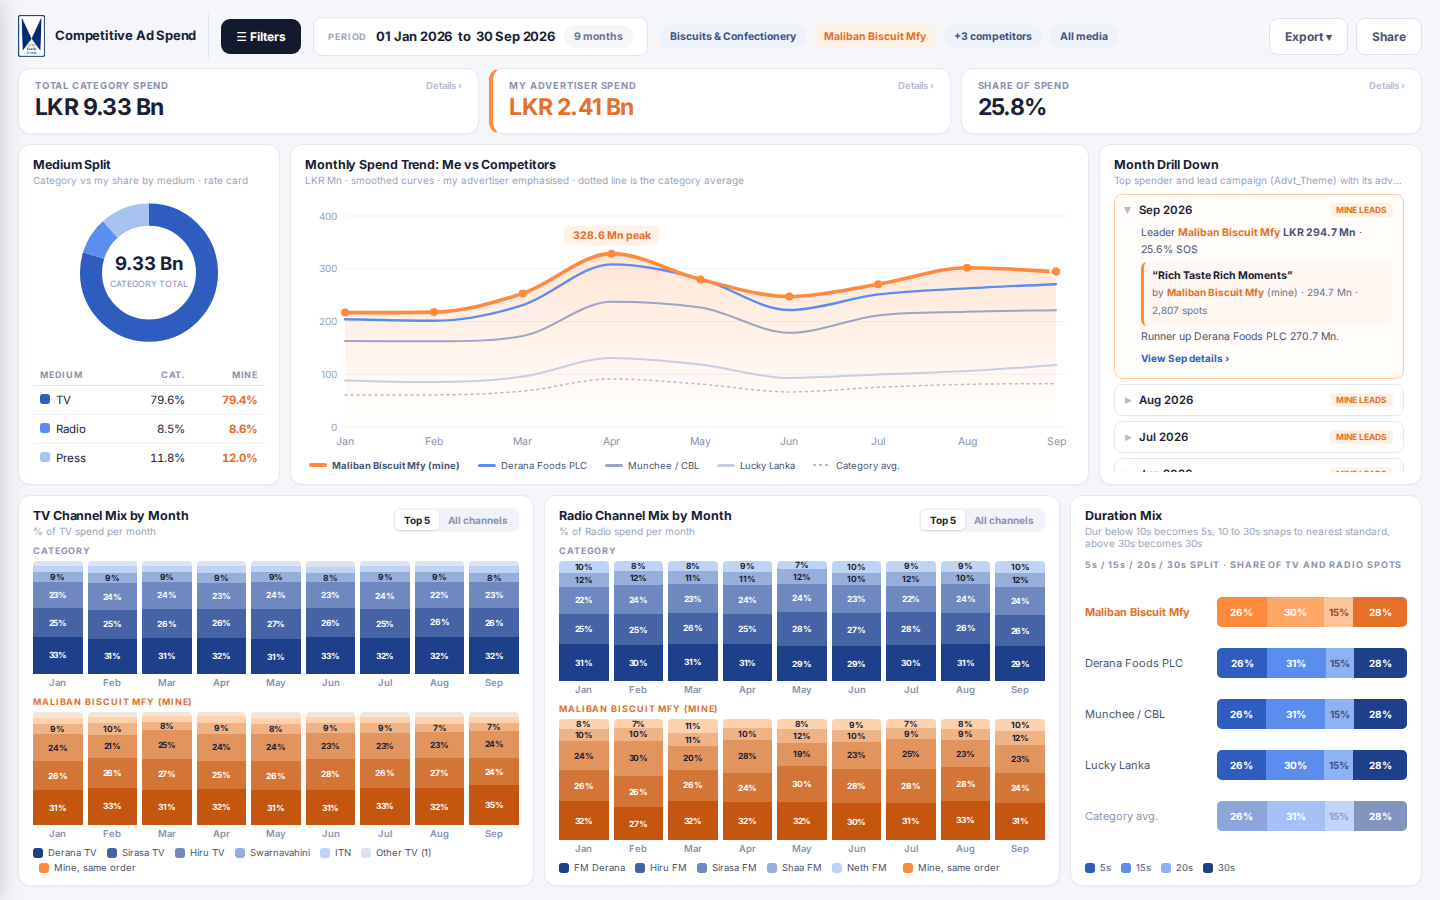
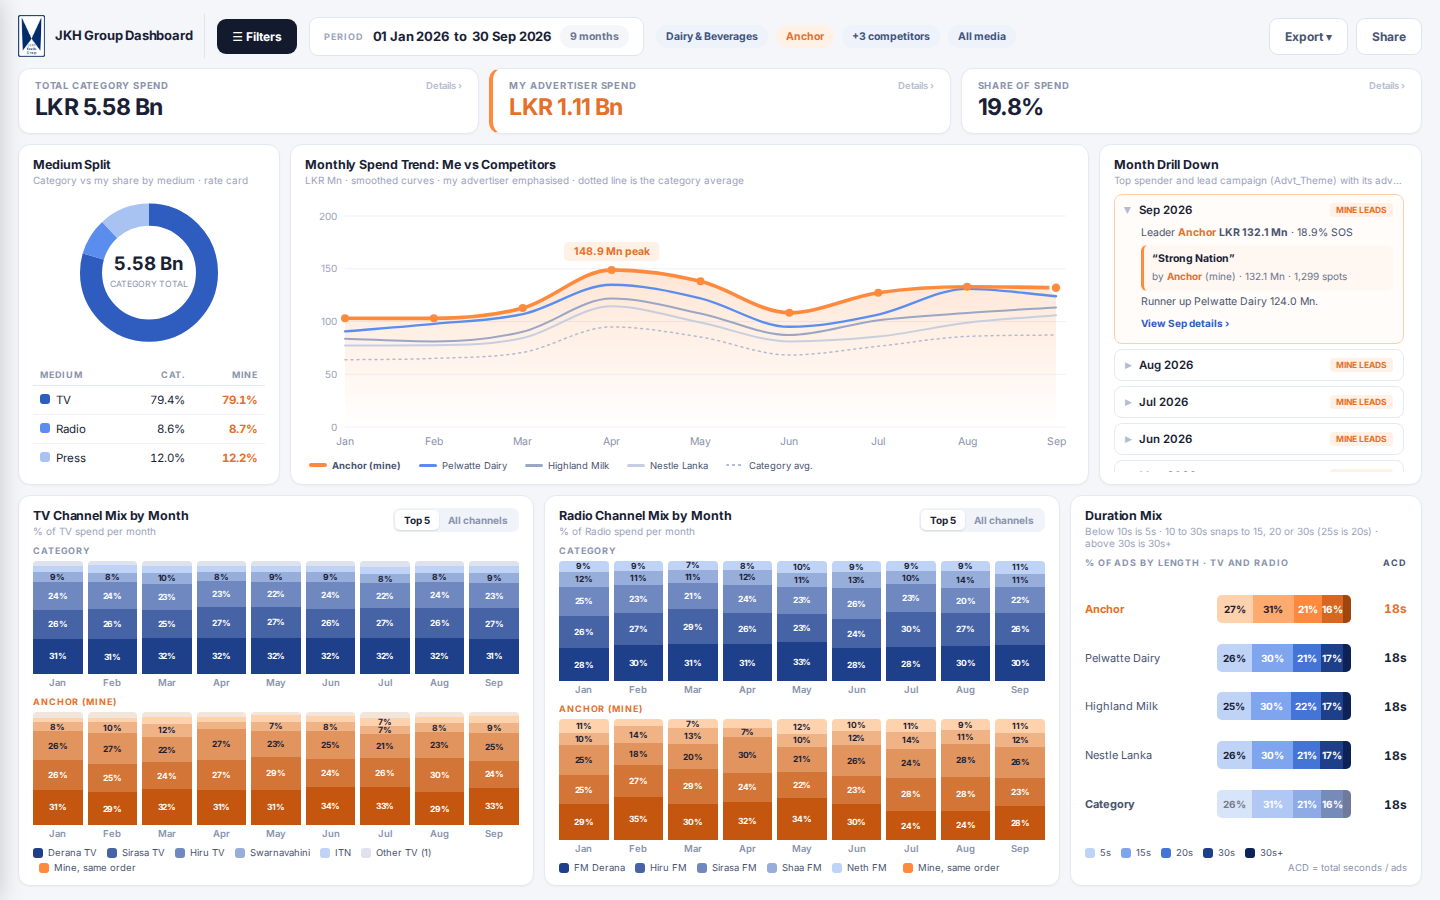
Rename to JKH Group Dashboard, round ACD, fix drill-down edge cases
- Rename the dashboard to JKH Group Dashboard (title, top bar, drawer,
  export file names, PDF and CSV headers, package name)
- Show ACD rounded to whole seconds
- Details pop-up now always uses the applied filters, not unapplied
  drawer edits; pop-up actions also start from the applied filters
- Clicking an Other TV/FM segment lists only the channels grouped in Other
- Grouped quiet months in Month Drill Down get a details link (date
  sub-range scope)
- Add scripts/check-drilldowns.js (npm run check): cross-checks every
  drill-down total against its chart over nine filter setups

Claude-Session: https://claude.ai/code/session_012WBhUq9PKyUmH5bMkQh9DT

diff --git a/public/app.js b/public/app.js
@@ -502,6 +502,9 @@
       .concat([`<div class="lg${off('__avg')}"${lgA('__avg')}><span class="sw" style="background:repeating-linear-gradient(90deg,#B4BCD0 0 3px,transparent 3px 6px);height:2px;width:18px"></span>Category avg.</div>`]).join('');
   }
 
+  const monthEnd = key => { const [y, m] = key.split('-').map(Number); return new Date(Date.UTC(y, m, 0)).toISOString().slice(0, 10); };
+  const maxIso = (a, b) => (a > b ? a : b), minIso = (a, b) => (a < b ? a : b);
+
   function renderDrill(d) {
     const months = d.drill;
     if (!months.length) { $('drill').innerHTML = '<div class="nodata">No months in range</div>'; return; }
@@ -543,7 +546,8 @@
       const single = byLeader.size === 1 ? [...byLeader][0] : null;
       const tag = single ? (single[1].mine ? '<span class="tagme">MINE LEADS</span>' : `<span class="tag tagr">${esc(single[0].toUpperCase())}</span>`) : '<span class="tag tagr">MIXED</span>';
       html.push(`<details${singles.length ? '' : ' open'}><summary><span class="chev">▶</span> ${first.label}${first.year !== last.year ? ' ' + first.year : ''} to ${last.label} ${last.year} ${tag}</summary>
-        <div class="dbody"><p id="p-m-q">${lines.join(' ')} Quieter period, category ${money(total)}, mine ${mn(mineTot)}.</p></div></details>`);
+        <div class="dbody"><p id="p-m-q">${lines.join(' ')} Quieter period, category ${money(total)}, mine ${mn(mineTot)}.<br>
+        <span class="mlink"${detA({ title: `${first.label} to ${last.label} ${last.year}`, from: maxIso(first.key + '-01', d.filters.from), to: minIso(monthEnd(last.key), d.filters.to), tab: 'adv' })}>View ${first.label} to ${last.label} details ›</span></p></div></details>`);
     }
     $('drill').innerHTML = html.join('');
   }
@@ -579,7 +583,7 @@
     const showText = n <= 16;
     const scopeFor = (j, m, mine) => (j < top
       ? { title: `${mix.channels[j]} · ${m.label} ${m.year}`, month: m.key, channel: mix.keys[j], mine: mine || undefined, tab: 'adv' }
-      : { title: `${otherName} · ${m.label} ${m.year}`, month: m.key, medium, mine: mine || undefined, tab: 'ch' });
+      : { title: `${otherName} · ${m.label} ${m.year}`, month: m.key, medium, exclude: mix.keys.slice(0, top), mine: mine || undefined, tab: 'ch' });
     const bars = (series, colors, mine) => `<div class="bars" style="grid-template-columns:repeat(${n},minmax(0,1fr))">` + series.map((raw, i) => {
       const parts = fold(raw), m = d.months[i];
       const segs = parts ? parts.map((p, j) => ({ p, c: colors[j], j })).reverse()
@@ -632,8 +636,8 @@
       const bar = r.split
         ? r.split.map((p, j) => (p > 0 ? `<div style="width:${p}%;background:${colors[j]};color:${textOn(colors[j])}"${tipA(`${r.name}\n${buckets[j]}: ${pctS(p)} of ads · ${nf(r.counts[j])} of ${nf(r.ads)} ads\nClick for details`)}${detA(scope)}>${p >= 7 ? Math.round(p) + '%' : ''}</div>` : '')).join('')
         : '<div style="width:100%;color:#9AA3BC;font-weight:500">No TV or Radio ads</div>';
-      const acd = r.acd == null ? '<span class="acdv na">n/a</span>' : `<span class="acdv${r.mine ? ' me' : ''}">${nf(r.acd, 1)}s</span>`;
-      return `<div class="durline"${detA(scope)}${tipA(`${r.name}\n${nf(r.ads)} ads · ACD ${r.acd == null ? 'n/a' : nf(r.acd, 1) + 's'}\nClick for details`)}>
+      const acd = r.acd == null ? '<span class="acdv na">n/a</span>' : `<span class="acdv${r.mine ? ' me' : ''}">${Math.round(r.acd)}s</span>`;
+      return `<div class="durline"${detA(scope)}${tipA(`${r.name}\n${nf(r.ads)} ads · ACD ${r.acd == null ? 'n/a' : Math.round(r.acd) + 's'}\nClick for details`)}>
         <span class="durname" style="${nameStyle}" title="${esc(r.mine ? r.name + ' (mine)' : r.name)}">${esc(r.name)}</span>
         <div class="durrow" style="flex:1;height:${barH}px;${r.avg ? 'opacity:.6' : ''}">${bar}</div>${acd}</div>`;
     }).join('');
@@ -723,9 +727,10 @@
   const scopeText = sc => {
     const parts = [];
     if (sc.month) { const [y, m] = sc.month.split('-'); parts.push(`${MON[+m - 1]} ${y}`); }
+    else if (sc.from) parts.push(`${fmtDate(sc.from)} to ${fmtDate(sc.to)}`);
     else parts.push(`${fmtDate(data.filters.from)} to ${fmtDate(data.filters.to)}`);
     parts.push(data.filters.pg);
-    if (sc.medium) parts.push(sc.medium);
+    if (sc.medium) parts.push(sc.exclude ? `Other ${sc.medium} channels` : sc.medium);
     if (sc.channel) parts.push(sc.channel);
     if (sc.advertiser) parts.push(sc.advertiser);
     if (sc.mine) parts.push('mine only');
@@ -733,6 +738,12 @@
     if (data.filters.daypart) parts.push(dpLabel(data.filters.daypart));
     return parts.join(' · ');
   };
+
+  // The filters behind what is on screen (the drawer may hold unapplied edits).
+  function appliedFilters() {
+    const { from, to, pg, mine, comps, medium, channel, daypart } = data.filters;
+    return { from, to, pg, mine: mine.slice(), comps: comps.slice(), medium, channel, daypart };
+  }
 
   async function openDetail(scope, fresh) {
     if (fresh) detailStack = [];
@@ -747,7 +758,7 @@
     modal.classList.add('on');
     try {
       const { title, tab, ...s2 } = scope;
-      detailData = await api('/api/detail', { method: 'POST', headers: { 'Content-Type': 'application/json' }, body: JSON.stringify({ filters: state, scope: s2 }) });
+      detailData = await api('/api/detail', { method: 'POST', headers: { 'Content-Type': 'application/json' }, body: JSON.stringify({ filters: appliedFilters(), scope: s2 }) });
       renderDetail(scope);
     } catch (e) {
       $('mBody').innerHTML = `<div class="mload">${esc(e.message)}</div>`;
@@ -762,7 +773,7 @@
       stat('Avg per spot', money(x.spots ? x.total / x.spots : 0));
     // Actions that push what you found back into the dashboard.
     const acts = [];
-    if (scope.month) acts.push(`<button class="abtn pri" data-act="month">Zoom dashboard to ${esc($('mSub').textContent.split(' · ')[0])}</button>`);
+    if (scope.month || scope.from) acts.push(`<button class="abtn pri" data-act="month">Zoom dashboard to ${esc($('mSub').textContent.split(' · ')[0])}</button>`);
     if (scope.channel) acts.push(`<button class="abtn" data-act="channel">Filter dashboard to ${esc(scope.channel)}</button>`);
     if (scope.medium && !scope.channel) acts.push(`<button class="abtn" data-act="medium">Show ${esc(scope.medium)} only</button>`);
     if (scope.advertiser && !state.mine.includes(scope.advertiser) && !state.comps.includes(scope.advertiser)) acts.push(`<button class="abtn" data-act="comp">Add ${esc(scope.advertiser)} as competitor</button>`);
@@ -774,7 +785,10 @@
     const b = e.target.closest('[data-act]');
     if (!b) return;
     const sc = detailStack[detailStack.length - 1];
-    if (b.dataset.act === 'month') {
+    Object.assign(state, appliedFilters());
+    if (b.dataset.act === 'month' && sc.from) {
+      state.from = sc.from; state.to = sc.to;
+    } else if (b.dataset.act === 'month') {
       const [y, m] = sc.month.split('-').map(Number);
       const last = new Date(Date.UTC(y, m, 0)).toISOString().slice(0, 10);
       state.from = sc.month + '-01' < overview.minDate ? overview.minDate : sc.month + '-01';
@@ -840,7 +854,7 @@
     if (!data) return toast('Nothing to export yet');
     ({ jpg: exportImage, pdf: exportPdf, csv: exportCsv })[b.dataset.x]();
   });
-  const fileBase = () => `JKH_ad-spend_${data.filters.pg.replace(/[^\w]+/g, '-')}_${data.filters.from}_to_${data.filters.to}`;
+  const fileBase = () => `JKH_Group_Dashboard_${data.filters.pg.replace(/[^\w]+/g, '-')}_${data.filters.from}_to_${data.filters.to}`;
   const loadScript = src => new Promise((ok, fail) => {
     if (document.querySelector(`script[src="${src}"]`)) return ok();
     const el = document.createElement('script');
@@ -877,7 +891,7 @@
       const [{ url, w, h }] = await Promise.all([captureDashboard(), loadScript('vendor/jspdf/jspdf.umd.min.js')]);
       const { jsPDF } = window.jspdf;
       const pdf = new jsPDF({ orientation: w >= h ? 'landscape' : 'portrait', unit: 'pt', format: [w, h] });
-      pdf.setProperties({ title: 'Competitive Ad Spend Dashboard', author: 'John Keells Group' });
+      pdf.setProperties({ title: 'JKH Group Dashboard', author: 'John Keells Group' });
       pdf.addImage(url, 'JPEG', 0, 0, w, h);
       pdf.save(fileBase() + '.pdf');
       toast('PDF downloaded');
@@ -886,7 +900,7 @@
   function exportCsv() {
     const d = data, q = v => `"${String(v).replace(/"/g, '""')}"`;
     const lines = [
-      ['Competitive Ad Spend Dashboard'], ['Period', `${fmtDate(d.filters.from)} to ${fmtDate(d.filters.to)}`], ['Product group', d.filters.pg],
+      ['JKH Group Dashboard'], ['Period', `${fmtDate(d.filters.from)} to ${fmtDate(d.filters.to)}`], ['Product group', d.filters.pg],
       ['Medium', d.filters.medium], ['Channel', d.filters.channel || 'All'], ['Daypart', d.filters.daypart || 'All'], ['Spend basis', 'Rate card (LKR)'], [],
       ['KPI', 'Value'], ['Category spend', d.kpi.catSpend], ['My spend', d.kpi.mineSpend], ['Share of spend %', d.kpi.sos.toFixed(2)],
       ['Rank', d.kpi.rank ? `${d.kpi.rank} of ${d.kpi.rankOf}` : ''], ['Category spots', d.kpi.catSpots], ['My spots', d.kpi.mineSpots], [],

diff --git a/scripts/check-drilldowns.js b/scripts/check-drilldowns.js
@@ -1,0 +1,108 @@
+'use strict';
+// Cross-checks every drill-down against the chart it opens from, over several filter setups.
+// Usage: node scripts/check-drilldowns.js samples/sample_420000.csv
+const assert = require('assert');
+const { ingestFile } = require('../server/ingest');
+const compute = require('../server/compute');
+
+const close = (a, b, msg) => {
+  const tol = Math.max(1e-6, Math.abs(b) * 1e-9);
+  assert.ok(Math.abs(a - b) <= tol, `${msg}: got ${a}, expected ${b}`);
+};
+
+(async () => {
+  const file = process.argv[2];
+  if (!file) { console.error('Usage: node scripts/check-drilldowns.js <file.csv|xlsx>'); process.exit(1); }
+  const ds = await ingestFile(file, file);
+  const ov = compute.overview(ds);
+  const pg = ov.productGroups[0].name;
+  const advs = compute.groupOptions(ds, pg).advertisers.map(a => a.name);
+  const tvCh = compute.groupOptions(ds, pg).channels.find(c => c.medium === 'TV').name;
+  const base = { from: '2026-01-01', to: '2026-09-30', pg, mine: [advs[0]], comps: advs.slice(1, 4), medium: 'All', channel: '', daypart: '' };
+  const scenarios = [
+    ['All media', base],
+    ['TV only', { ...base, medium: 'TV' }],
+    ['Radio only', { ...base, medium: 'Radio' }],
+    ['Prime daypart', { ...base, daypart: 'Prime' }],
+    ['One channel', { ...base, channel: tvCh }],
+    ['Two of mine', { ...base, mine: advs.slice(0, 2), comps: advs.slice(2, 5) }],
+    ['Mid-month range', { ...base, from: '2026-02-15', to: '2026-05-10' }],
+    ['Single month', { ...base, from: '2026-03-01', to: '2026-03-31' }],
+    ['No competitors', { ...base, comps: [] }],
+  ];
+  let checks = 0;
+  for (const [label, f] of scenarios) {
+    const d = compute.dashboard(ds, f);
+    const det = scope => compute.detail(ds, f, scope);
+
+    // KPI cards
+    const all = det({});
+    close(all.total, d.kpi.catSpend, `${label} category spend`); checks++;
+    assert.strictEqual(all.spots, d.kpi.catSpots, `${label} category spots`); checks++;
+    close(det({ mine: true }).total, d.kpi.mineSpend, `${label} mine spend`); checks++;
+    close(all.mineTotal, d.kpi.mineSpend, `${label} mine share in category detail`); checks++;
+    close(all.advertisers.reduce((s, a) => s + a.spend, 0), all.total, `${label} advertisers add up`); checks++;
+    close(all.channels.reduce((s, c) => s + c.spend, 0), all.total, `${label} channels add up`); checks++;
+
+    // Medium split
+    d.medium.names.forEach((m, i) => {
+      const t = det({ medium: m }).total;
+      close(d.kpi.catSpend ? (t / d.kpi.catSpend) * 100 : 0, d.medium.category[i], `${label} medium ${m} share`); checks++;
+    });
+
+    // Trend, drill down and campaigns, month by month
+    d.months.forEach((m, k) => {
+      const md = det({ month: m.key });
+      close(md.total, d.drill[k].category, `${label} ${m.key} category`); checks++;
+      close(md.mineTotal, d.trend.mine[k], `${label} ${m.key} mine`); checks++;
+      d.trend.competitors.forEach(c => {
+        close(det({ month: m.key, advertiser: c.name }).total, c.values[k], `${label} ${m.key} ${c.name}`); checks++;
+      });
+      const L = d.drill[k].leader;
+      if (L && !L.mine) { close(md.advertisers[0].spend, L.spend, `${label} ${m.key} leader`); checks++; }
+      const camp = d.drill[k].campaign;
+      if (camp) {
+        const cd = det({ month: m.key, advertiser: camp.advertiser });
+        const row = cd.campaigns.find(c => c.name === camp.name);
+        assert.ok(row, `${label} ${m.key} campaign "${camp.name}" missing from its advertiser's detail`);
+        close(row.spend, camp.spend, `${label} ${m.key} campaign spend`); checks++;
+        assert.strictEqual(row.spots, camp.spots, `${label} ${m.key} campaign spots`); checks++;
+      }
+    });
+
+    // Channel mix: each segment, heatmap cell and the Top 5 "Other" group
+    for (const [mix, medium] of [[d.tvMix, 'TV'], [d.radioMix, 'Radio']]) {
+      d.months.forEach((m, k) => {
+        const parts = mix.category[k];
+        if (!parts) return;
+        const medTotal = det({ month: m.key, medium }).total;
+        mix.keys.forEach((key, j) => {
+          close((det({ month: m.key, channel: key }).total / medTotal) * 100, parts[j], `${label} ${medium} ${m.key} ${key}`); checks++;
+        });
+        const mineParts = mix.mine[k];
+        if (mineParts) {
+          const mineTotal = det({ month: m.key, medium, mine: true }).total;
+          close((det({ month: m.key, channel: mix.keys[0], mine: true }).total / mineTotal) * 100, mineParts[0], `${label} ${medium} ${m.key} mine`); checks++;
+        }
+        if (mix.keys.length > 5) {
+          const other = det({ month: m.key, medium, exclude: mix.keys.slice(0, 5) }).total;
+          close((other / medTotal) * 100, parts.slice(5).reduce((s, x) => s + x, 0), `${label} ${medium} ${m.key} Other`); checks++;
+        }
+      });
+    }
+
+    // Duration: % adds to 100 and counts match
+    d.duration.rows.forEach(r => {
+      if (!r.split) return;
+      close(r.split.reduce((s, x) => s + x, 0), 100, `${label} duration ${r.name} adds to 100`); checks++;
+      assert.strictEqual(r.counts.reduce((s, x) => s + x, 0), r.ads, `${label} duration ${r.name} counts`); checks++;
+      assert.ok(r.acd == null || (r.acd > 0 && r.acd < 600), `${label} duration ${r.name} ACD in range`); checks++;
+    });
+
+    // Sub-range (grouped quiet months) sits inside the dashboard dates
+    const sub = det({ from: d.months[0].key + '-01', to: d.filters.to });
+    close(sub.total, d.kpi.catSpend, `${label} full sub-range equals category`); checks++;
+    console.log(`ok  ${label.padEnd(16)} ${d.months.length} months`);
+  }
+  console.log(`\nAll ${checks} drill-down checks passed`);
+})().catch(e => { console.error('FAILED:', e.message); process.exit(1); });

diff --git a/public/index.html b/public/index.html
@@ -3,7 +3,7 @@
 <head>
 <meta charset="utf-8">
 <meta name="viewport" content="width=device-width, initial-scale=1">
-<title>Competitive Ad Spend Dashboard · John Keells Group</title>
+<title>JKH Group Dashboard</title>
 <link rel="icon" href="jkh-logo.png">
 <link rel="stylesheet" href="vendor/inter/400.css">
 <link rel="stylesheet" href="vendor/inter/500.css">
@@ -272,8 +272,8 @@ tr.me .sharebar{background:#FF8A3D}
 <div class="drawer" id="drawer">
   <div class="dhead">
     <label class="closeX" for="drawerToggle">✕</label>
-    <div class="brand">COMPETITIVE SPEND MONITOR</div>
-    <div class="brandsub">Media Intelligence · Sri Lanka</div>
+    <div class="brand">JKH GROUP DASHBOARD</div>
+    <div class="brandsub">Competitive media spend · Sri Lanka</div>
     <div class="tabs">
       <button class="tab on" data-pane="paneFilters">Filters</button>
       <button class="tab" data-pane="paneData">Data file<span class="dot" id="dataDot" style="display:none"></span></button>
@@ -357,7 +357,7 @@ tr.me .sharebar{background:#FF8A3D}
 <div class="topbar">
   <div class="logo">
     <img src="jkh-logo.png" alt="John Keells Group">
-    <div class="t1">Competitive Ad Spend</div>
+    <div class="t1">JKH Group Dashboard</div>
   </div>
   <label class="fbtn" for="drawerToggle" id="filterBtn">☰ Filters</label>
   <div class="daterange">
@@ -461,6 +461,6 @@ tr.me .sharebar{background:#FF8A3D}
   </div>
 </div>
 
-<script src="app.js?v=5"></script>
+<script src="app.js?v=6"></script>
 </body>
 </html>

diff --git a/server/compute.js b/server/compute.js
@@ -270,6 +270,12 @@ function detail(ds, f, scope = {}) {
   const sCh = scope.channel ? dicts.channel.indexOf(scope.channel) : -1;
   const sAdv = scope.advertiser ? dicts.adv.indexOf(scope.advertiser) : -1;
   const onlyMine = !!scope.mine;
+  // "Other" segments leave out the channels shown on their own.
+  const skipCh = new Uint8Array(nCh);
+  for (const k of scope.exclude || []) { const c = dicts.channel.indexOf(k); if (c >= 0) skipCh[c] = 1; }
+  // A sub-range inside the dashboard dates, e.g. a group of quiet months.
+  const rFrom = scope.from ? Math.max(from, toDay(scope.from)) : from;
+  const rTo = scope.to ? Math.min(to, toDay(scope.to)) : to;
 
   const advSpend = new Float64Array(nAdv), advSpots = new Float64Array(nAdv);
   const chSpend = new Float64Array(nCh), chSpots = new Float64Array(nCh), chMine = new Float64Array(nCh);
@@ -288,11 +294,12 @@ function detail(ds, f, scope = {}) {
     if (dpId >= 0 && dp[i] !== dpId) continue;
     if (sMed >= 0 && md !== sMed) continue;
     if (sCh >= 0 && c !== sCh) continue;
+    if (skipCh[c]) continue;
     const a = adv[i];
     if (sAdv >= 0 && a !== sAdv) continue;
     if (onlyMine && role[a] !== 1) continue;
     const v = cost[i];
-    if (d < from || d > to || (mon >= 0 && monCol[i] !== mon)) continue;
+    if (d < rFrom || d > rTo || (mon >= 0 && monCol[i] !== mon)) continue;
     total += v; spots++;
     advSpend[a] += v; advSpots[a]++;
     chSpend[c] += v; chSpots[c]++;

diff --git a/README.md b/README.md
@@ -1,4 +1,4 @@
-# Competitive Ad Spend Dashboard
+# JKH Group Dashboard
 
 A full-screen competitive media spend dashboard (John Keells Group branding) for Sri Lankan advertisers. Upload a spot log (`.xlsx` or `.csv`, 400k+ rows), choose a product group, pick your advertiser and your competitors, and compare spend, share of spend, medium split, channel mix and duration mix.
 
@@ -54,7 +54,7 @@ Required: `Advertiser, Channel, Dd, Mn, Yr, Cost`. Header names are matched igno
 * **Category avg.** (trend) = category spend in the month / advertisers active that month.
 * **Channel mix** = every channel in the medium, ordered by category spend in the selection.
 * **Duration mix** = % of ads (TV and Radio) in each length bucket: ads of that length / total ads. Press has no duration.
-* **ACD** (average commercial duration) = sum of raw `Dur` / number of ads, for my advertiser, each competitor and the category.
+* **ACD** (average commercial duration) = sum of raw `Dur` / number of ads, for my advertiser, each competitor and the category, shown rounded to whole seconds.
 * **Month drill down** = the leader is the top spender in the whole category that month. The earliest run of quiet months (category spend below 80% of the monthly average, 2 or more months) is combined into one row.
 
 ## Run locally
@@ -63,6 +63,7 @@ Required: `Advertiser, Channel, Dd, Mn, Yr, Cost`. Header names are matched igno
 npm install
 npm start            # http://localhost:3000
 npm test             # smoke tests for the derived fields and metrics
+npm run check        # cross-checks every drill-down total against its chart (needs npm run sample first)
 npm run sample       # writes samples/sample_420000.csv and .xlsx for testing
 ```
 
